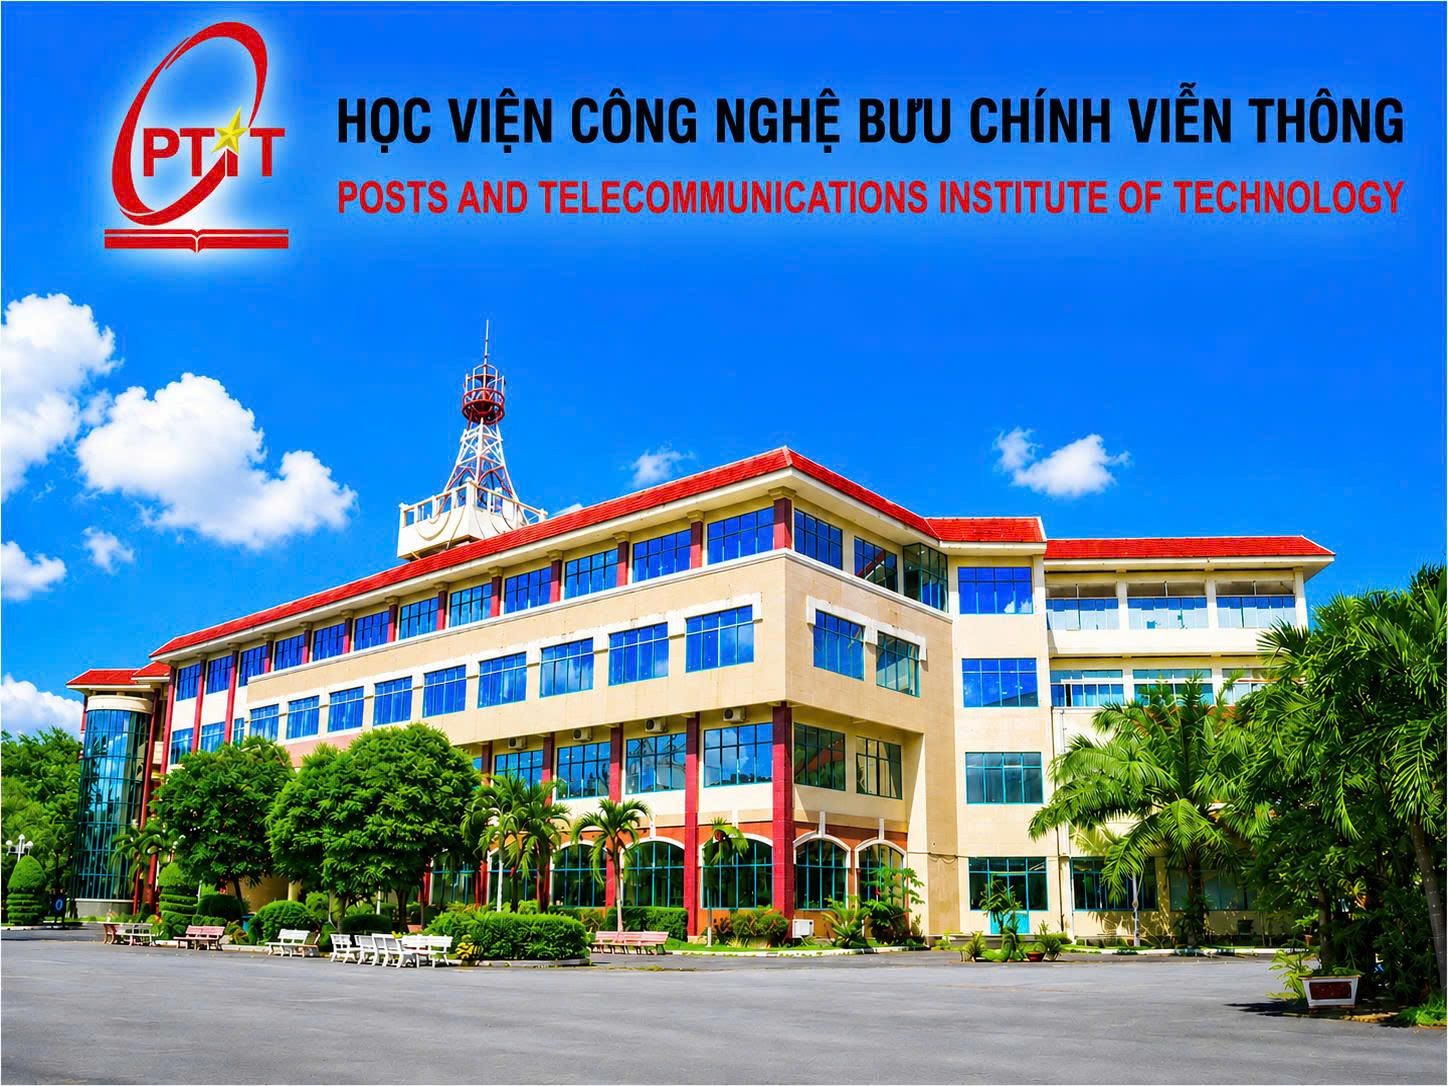
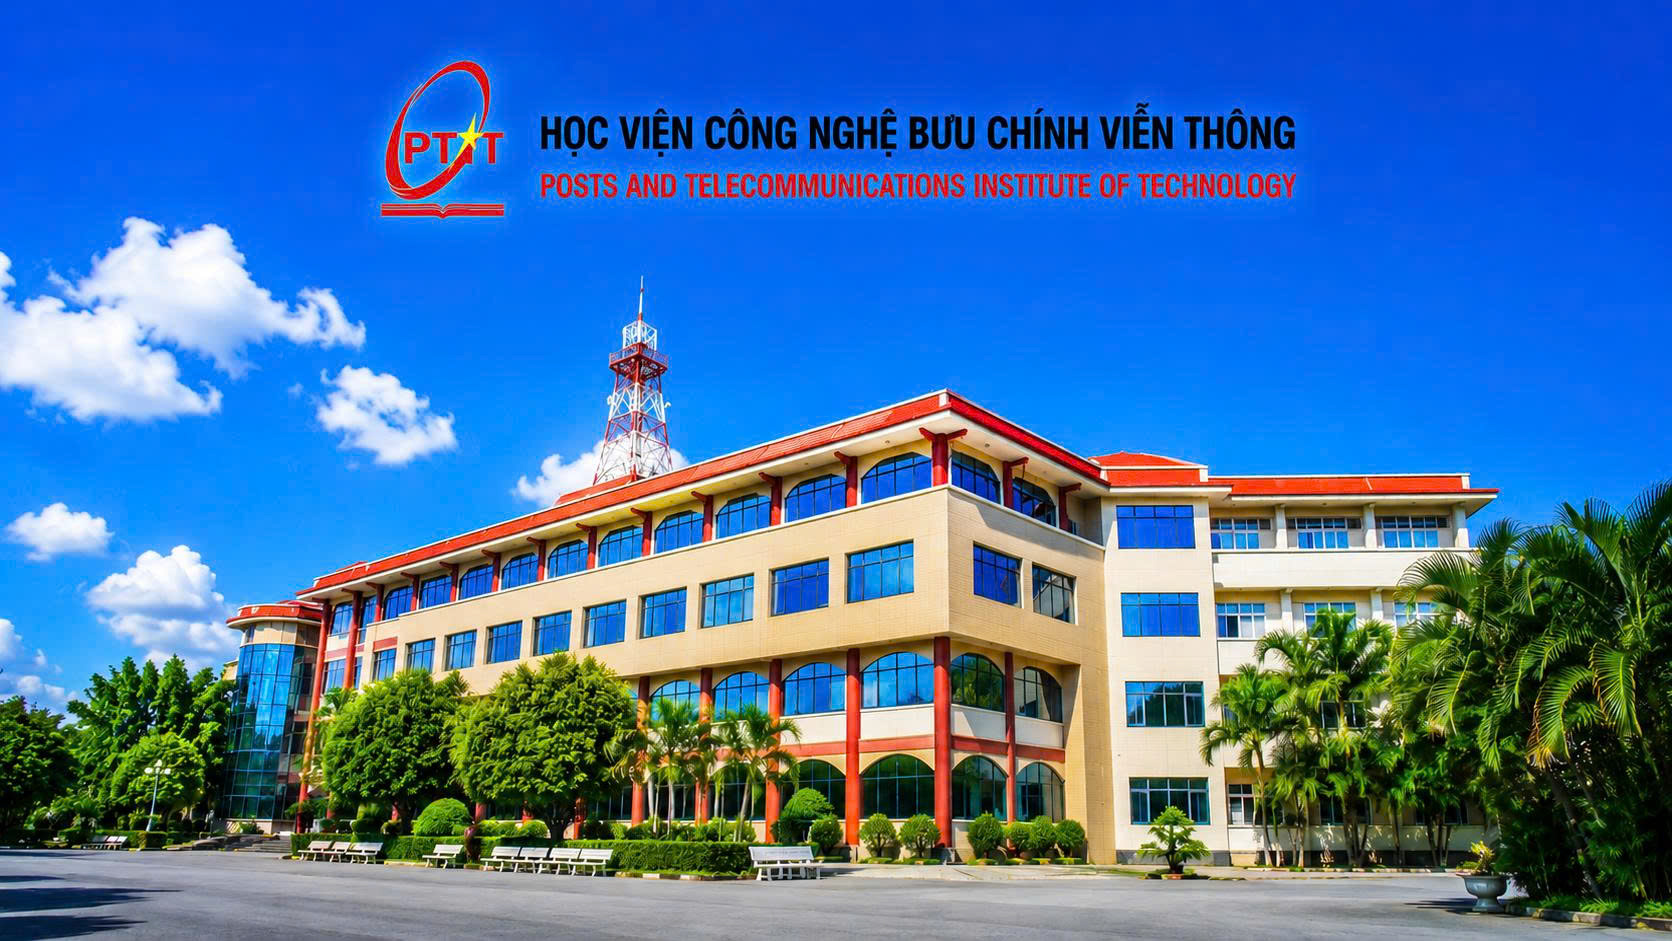
Update giao diện login

diff --git a/frontend/css/components.css b/frontend/css/components.css
@@ -371,7 +371,8 @@ tr:hover td {
 .login-container {
   display: flex;
   justify-content: center;
-  align-items: center;
+  align-items: flex-end;
+  padding-bottom: 130px;
   height: 100vh;
   position: relative;
   background-image: url("../assets/bg-ptit.jpg");
@@ -398,41 +399,102 @@ tr:hover td {
   width: 100%;
   max-width: 400px;
 
-  background: white;
+  /* Glassmorphism */
+  background: rgba(255, 255, 255, 0.1);
+  backdrop-filter: blur(20px) saturate(180%);
+  -webkit-backdrop-filter: blur(20px) saturate(180%);
 
-  padding: 30px;
+  padding: 20px 40px;
 
-  border-radius: 12px;
+  border-radius: 20px;
 
-  border: 1px solid #ddd;
+  border: 1px solid rgba(255, 255, 255, 0.2);
 
-  box-shadow: 0 4px 20px rgba(0, 0, 0, 0.08);
+  box-shadow:
+    0 8px 32px rgba(0, 0, 0, 0.35),
+    inset 0 1px 0 rgba(255, 255, 255, 0.15);
 }
 
 .login-title {
   font-size: 24px;
   font-weight: 700;
   text-align: center;
+  color: #ffffff;
 }
 
 .login-subtitle {
   text-align: center;
-  color: #666;
+  color: rgba(255, 255, 255, 0.65);
   margin-top: 6px;
-  margin-bottom: 24px;
+  margin-bottom: 28px;
+  font-size: 13px;
 }
 
 .login-err {
   display: none;
 
-  background: #fcebeb;
-  color: #a32d2d;
+  background: rgba(163, 45, 45, 0.25);
+  border: 1px solid rgba(163, 45, 45, 0.5);
+  color: #ffb3b3;
 
-  padding: 10px;
+  padding: 10px 12px;
 
-  border-radius: 8px;
+  border-radius: 10px;
 
   margin-bottom: 14px;
 
   font-size: 12px;
+  backdrop-filter: blur(8px);
+}
+
+/* Glassmorphism: label & input bên trong login */
+.login-card .form-label {
+  color: #ffffff;
+}
+
+.login-card .form-input {
+  background: rgba(255, 255, 255, 0.1);
+  border: 1px solid rgba(255, 255, 255, 0.2);
+  color: #ffffff;
+  border-radius: 10px;
+}
+
+.login-card .form-input::placeholder {
+  color: rgba(255, 255, 255, 0.4);
+}
+
+.login-card .form-input:focus {
+  background: rgba(255, 255, 255, 0.15);
+  border-color: rgba(255, 255, 255, 0.45);
+  box-shadow: 0 0 0 3px rgba(83, 74, 183, 0.35);
+  outline: none;
+}
+
+.login-card .btn-primary {
+  background: rgba(83, 74, 183, 0.85);
+  border-color: rgba(83, 74, 183, 0.6);
+  color: #fff;
+  border-radius: 10px;
+  font-size: 14px;
+  font-weight: 600;
+  letter-spacing: 0.02em;
+  transition:
+    background 0.2s,
+    transform 0.1s;
+}
+
+.login-card .btn-primary:hover {
+  background: rgba(83, 74, 183, 1);
+  transform: translateY(-1px);
+}
+
+.login-card .btn {
+  background: rgba(255, 255, 255, 0.08);
+  border: 1px solid rgba(255, 255, 255, 0.18);
+  color: rgba(255, 255, 255, 0.75);
+  border-radius: 10px;
+}
+
+.login-card .btn:hover {
+  background: rgba(255, 255, 255, 0.14);
 }

diff --git a/frontend/index.html b/frontend/index.html
@@ -124,20 +124,9 @@
   <body>
     <div class="login-container" id="login-container">
       <div class="login-card">
-        <div style="text-align: center; margin-bottom: 16px">
-          <img
-            src="assets/logo-ptit.png"
-            alt="Học viện Công nghệ Bưu chính Viễn thông"
-            style="
-              width: 100%;
-              max-width: 67px;
-              height: auto;
-              display: block;
-              margin: 0 auto;
-            "
-          />
+        <div style="text-align: center; margin-bottom: 4px">
+          <div class="login-title">🏆 HỆ THỐNG QUẢN LÝ CUỘC THI</div>
         </div>
-        <div class="login-subtitle">Hệ thống quản lý cuộc thi sinh viên</div>
 
         <div class="login-err" id="login-err-msg" style="display: none">
           Tài khoản hoặc mật khẩu không chính xác!
@@ -171,7 +160,12 @@
           <button
             type="submit"
             class="btn btn-primary"
-            style="width: 100%; justify-content: center; padding: 10px"
+            style="
+              width: 100%;
+              justify-content: center;
+              padding: 10px;
+              color: #ffffff;
+            "
           >
             <i class="ti ti-login"></i>
 
@@ -185,7 +179,7 @@
             onclick="forgotPassword()"
             style="
               font-size: 12px;
-              color: #534ab7;
+              color: #ffffff;
               text-decoration: none;
               font-weight: 500;
             "
@@ -195,12 +189,17 @@
         </div>
 
         <div style="margin-top: 16px; text-align: center">
-          <span style="font-size: 12px; color: #999"> Hoặc </span>
+          <span style="font-size: 12px; color: #ffffff"> Hoặc </span>
         </div>
 
         <button
           class="btn"
-          style="width: 100%; justify-content: center; margin-top: 12px"
+          style="
+            width: 100%;
+            justify-content: center;
+            margin-top: 12px;
+            color: #ffffff;
+          "
           onclick="loginAsGuest()"
         >
           <i class="ti ti-eye"></i>
